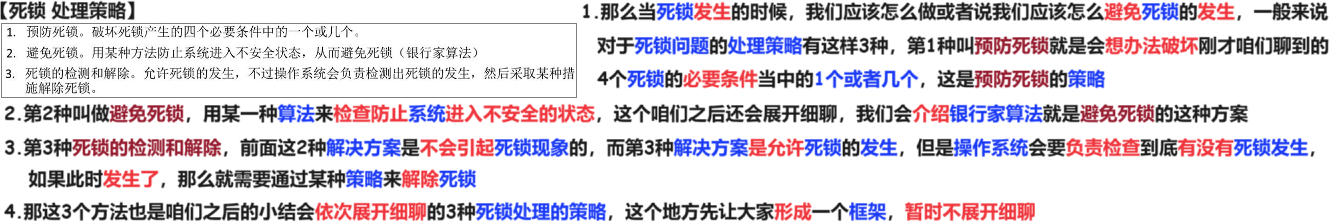
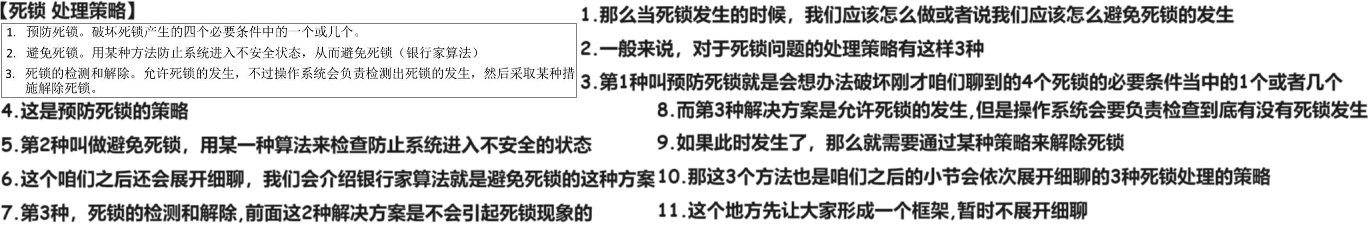
240712

diff --git a/01 初试/01 OS/02 24 25 王道/01 基础/02 进程 线程/04 死锁/01 死锁 概念 240712/01 消化/02 Doc.md b/01 初试/01 OS/02 24 25 王道/01 基础/02 进程 线程/04 死锁/01 死锁 概念 240712/01 消化/02 Doc.md
@@ -28,16 +28,16 @@
 
 # 05 什么时候 会发生死锁
 
-<img src="https://cvp.oss-cn-shanghai.aliyuncs.com/picgo/202405091051756.png" alt="image-20240509105128647" style="zoom:50%;" />
+<img src="https://cvp.oss-cn-shanghai.aliyuncs.com/picgo/202407122121817.png" alt="image-20240712212116671" style="zoom: 50%;" />
 
 
 
 # 06 死锁 处理策略
 
-<img src="https://cvp.oss-cn-shanghai.aliyuncs.com/picgo/202405091105774.png" alt="image-20240509110513685" style="zoom:50%;" />
+<img src="https://cvp.oss-cn-shanghai.aliyuncs.com/picgo/202407122124443.png" alt="image-20240712212403341" style="zoom:50%;" />
 
 
 
 # 07 知识回顾与重要考点
 
-<img src="https://cvp.oss-cn-shanghai.aliyuncs.com/picgo/202405091113669.png" alt="image-20240509111341526" style="zoom: 50%;" />
+<img src="https://cvp.oss-cn-shanghai.aliyuncs.com/picgo/202407122126391.png" alt="image-20240712212608266" style="zoom:50%;" />

diff --git a/01 初试/01 OS/02 24 25 王道/01 基础/02 进程 线程/03 同步 互斥/12 哲学家进餐问题 240712/01 消化/02 Doc.md b/01 初试/01 OS/02 24 25 王道/01 基础/02 进程 线程/03 同步 互斥/12 哲学家进餐问题 240712/01 消化/02 Doc.md
@@ -22,4 +22,4 @@
 
 # 04 知识回顾与重要考点
 
-<img src="https://cvp.oss-cn-shanghai.aliyuncs.com/picgo/202407122116020.png" alt="image-20240712211612947" style="zoom:50%;" />
+<img src="https://cvp.oss-cn-shanghai.aliyuncs.com/picgo/202407122116020.png" alt="image-20240712211612947" style="zoom:50%;" />、
